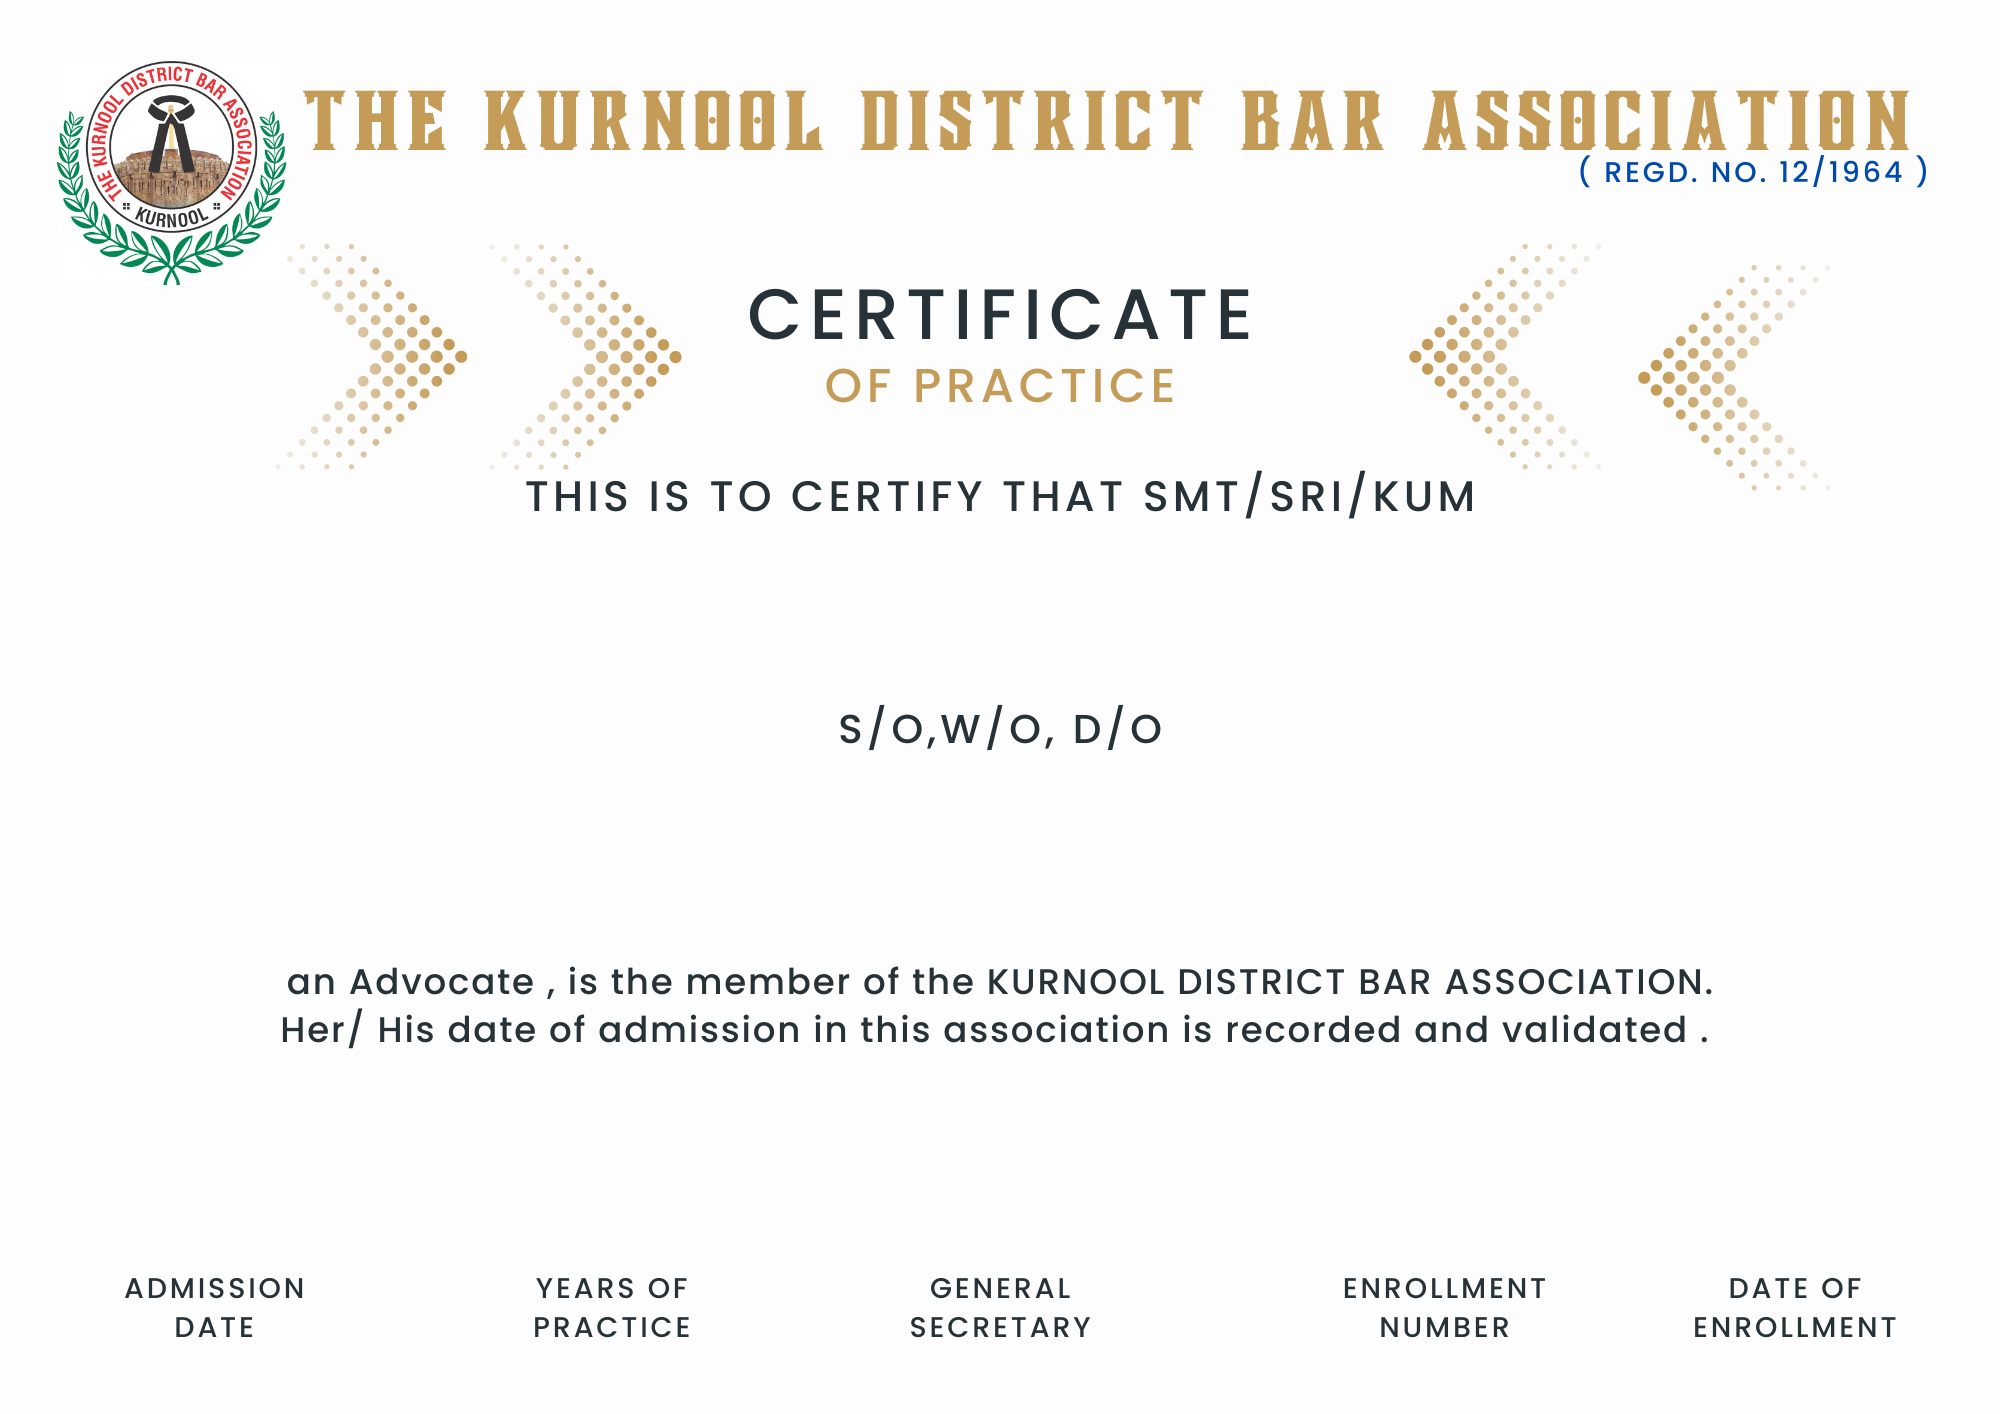
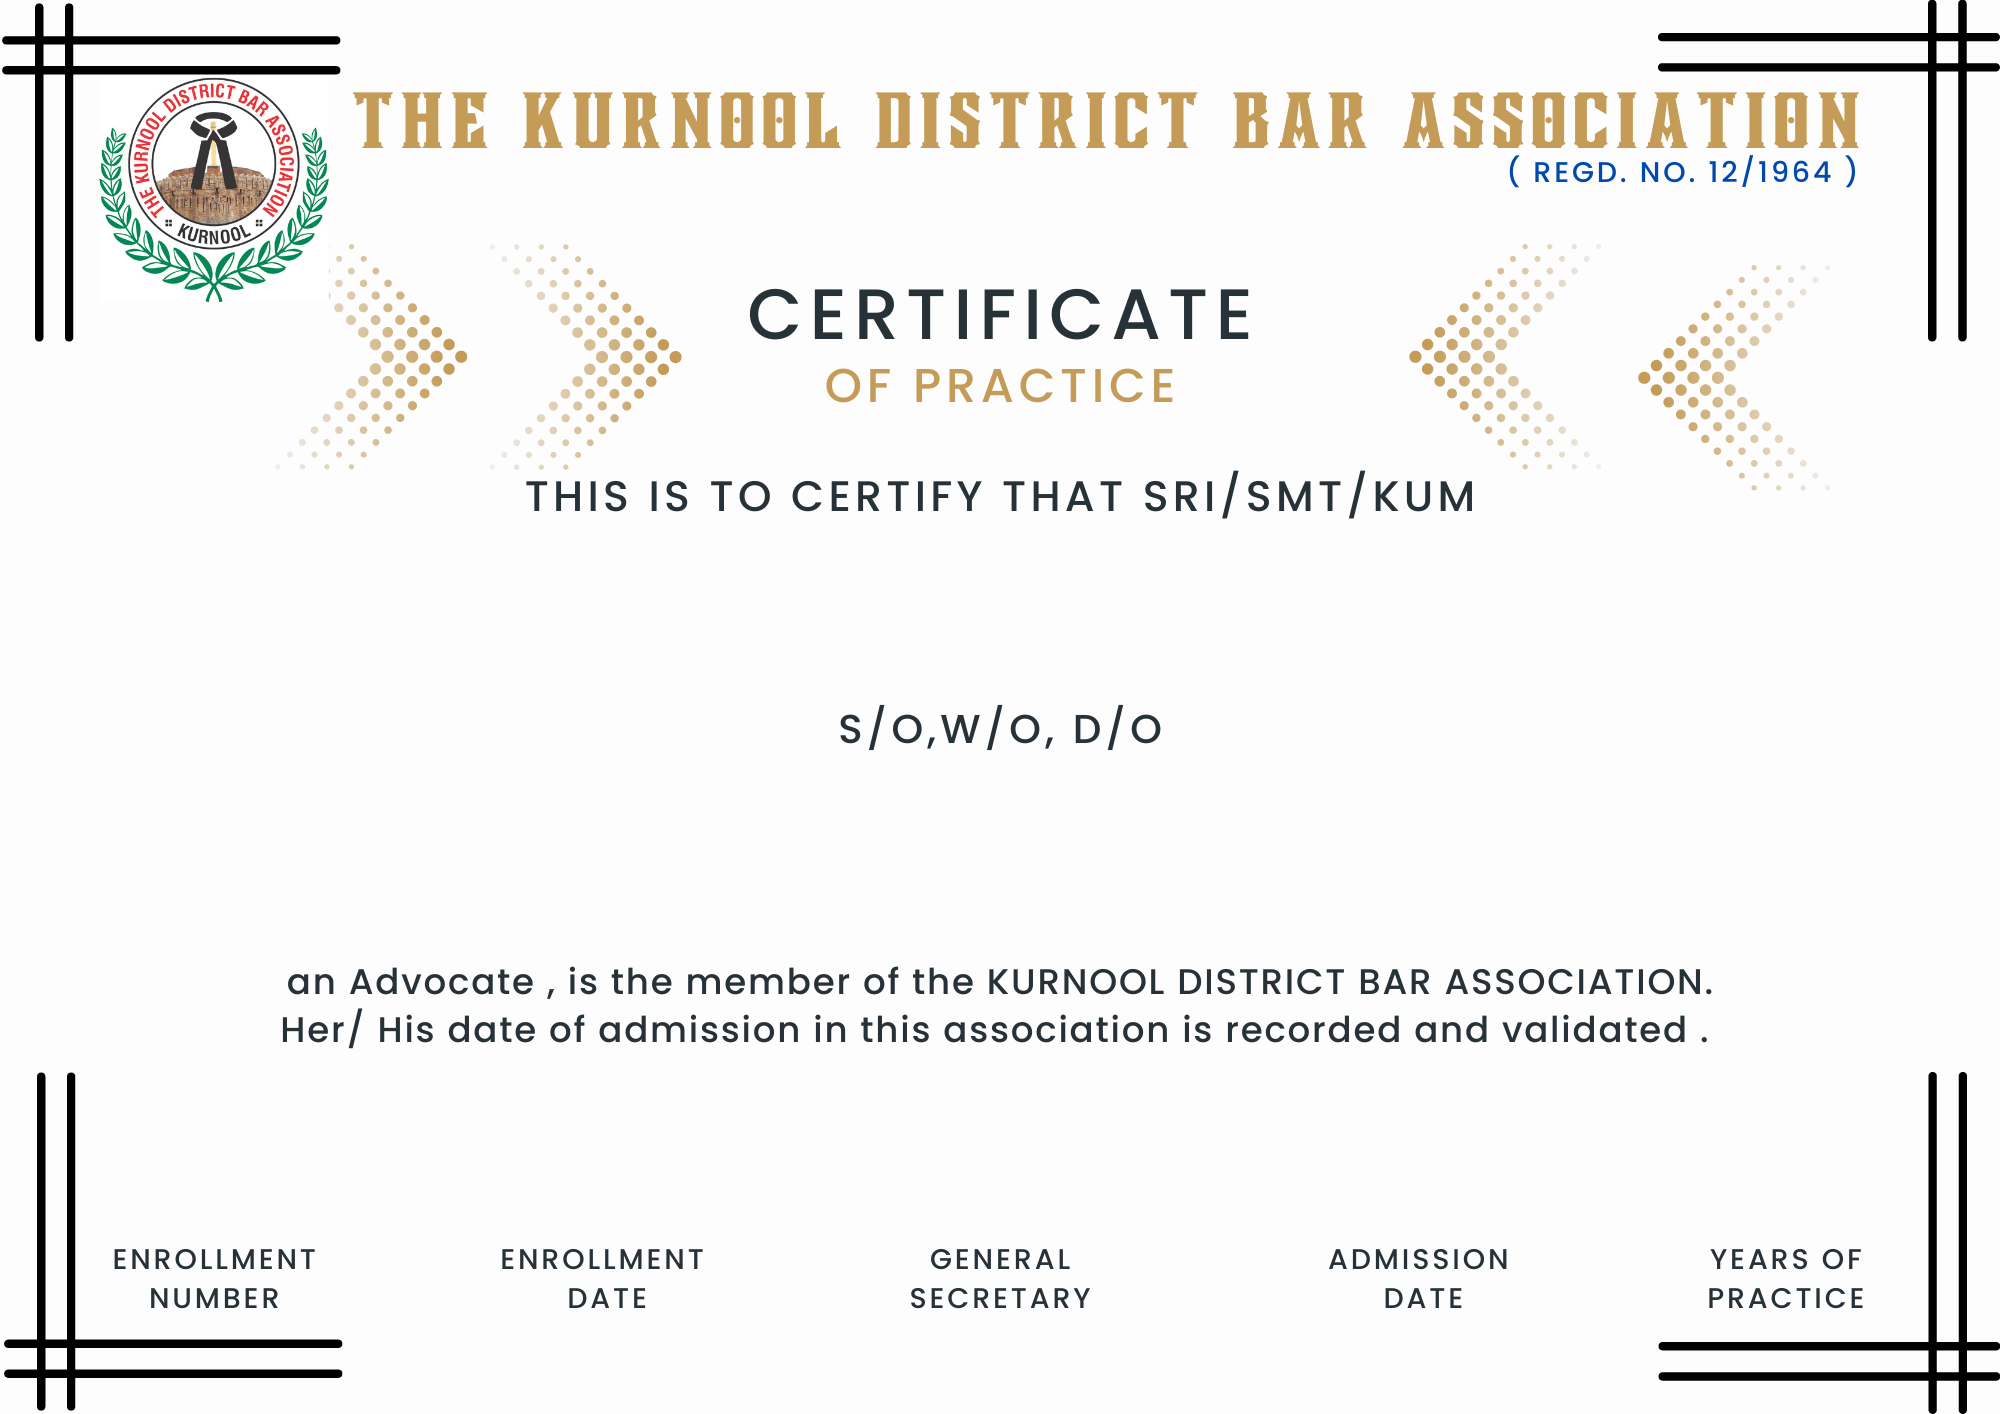
27-08-2022

diff --git a/src/pages/Certificate.jsx b/src/pages/Certificate.jsx
@@ -324,7 +324,7 @@ const HoldersFather = Styled.div`
 const HolderAdmission = Styled.div`
   position: absolute;
   bottom: 15%;
-  left: 8%;
+  left: 67%;
 
   font-family: system-ui;
   font-weight: 400;
@@ -358,7 +358,7 @@ const HolderAdmission = Styled.div`
 const PractiseYears = Styled.div`
   position: absolute;
   bottom: 15%;
-  left: 28%;
+  left: 88%;
 
   font-family: system-ui;
   font-weight: 400;
@@ -392,7 +392,7 @@ const PractiseYears = Styled.div`
 const HoldersEnroll = Styled.div`
   position: absolute;
   bottom: 15%;
-  left: 67%;
+  left: 6%;
 
   font-family: system-ui;
   font-weight: 400;
@@ -426,7 +426,7 @@ const HoldersEnroll = Styled.div`
 const HoldersEnnrollDt = Styled.div`
   position: absolute;
   bottom: 15%;
-  left: 86%;
+  left: 26%;
 
   font-family: system-ui;
   font-weight: 400;
@@ -501,7 +501,7 @@ const ComponentToPrint = React.forwardRef((props, ref) => (
         {props.data === null ? "Admission Date" : convertBackendDateToFront(props.data.admissionDate)}
         </HolderAdmission>
         <PractiseYears>
-          {props.data === null ? "" : calculateService(props.data.admissionDate)} Years
+          {props.data === null ? "" : calculateService(props.data.admissionDate)}
         </PractiseYears>
         <HoldersEnroll>
         {props.data === null ? "Enrollment Number" : props.data.enrollmentNo}

diff --git a/src/pages/Incumbency.jsx b/src/pages/Incumbency.jsx
@@ -256,6 +256,7 @@ font-size: 30px;
 
 const Tab2Head = Styled.div`
 display: flex;
+flex-direction: column;
     align-items: center;
     justify-content: center;
 `
@@ -685,6 +686,16 @@ const Incumbency = () => {
                 </Tabs>
                 </Box>
                 <TabPanel  value={value} index={0}>
+
+                <Tab2Head>
+                <p>THE DISTRICT BAR ASSOCIATION- KURNOOL</p>
+                <p>(REGISTRATION NUMBER 12/1964)</p>
+                <p>DATED THE 22 ND DAY OF AUGUST 1964</p>
+                <p>The names, addresses and occupation of the Members of the Managing Committee of the
+                association in whom the Administration of the affairs of the Association is at present vested
+                are :</p>
+                </Tab2Head>
+
                   {
                     FoundersData.map((item, index) => (
 
